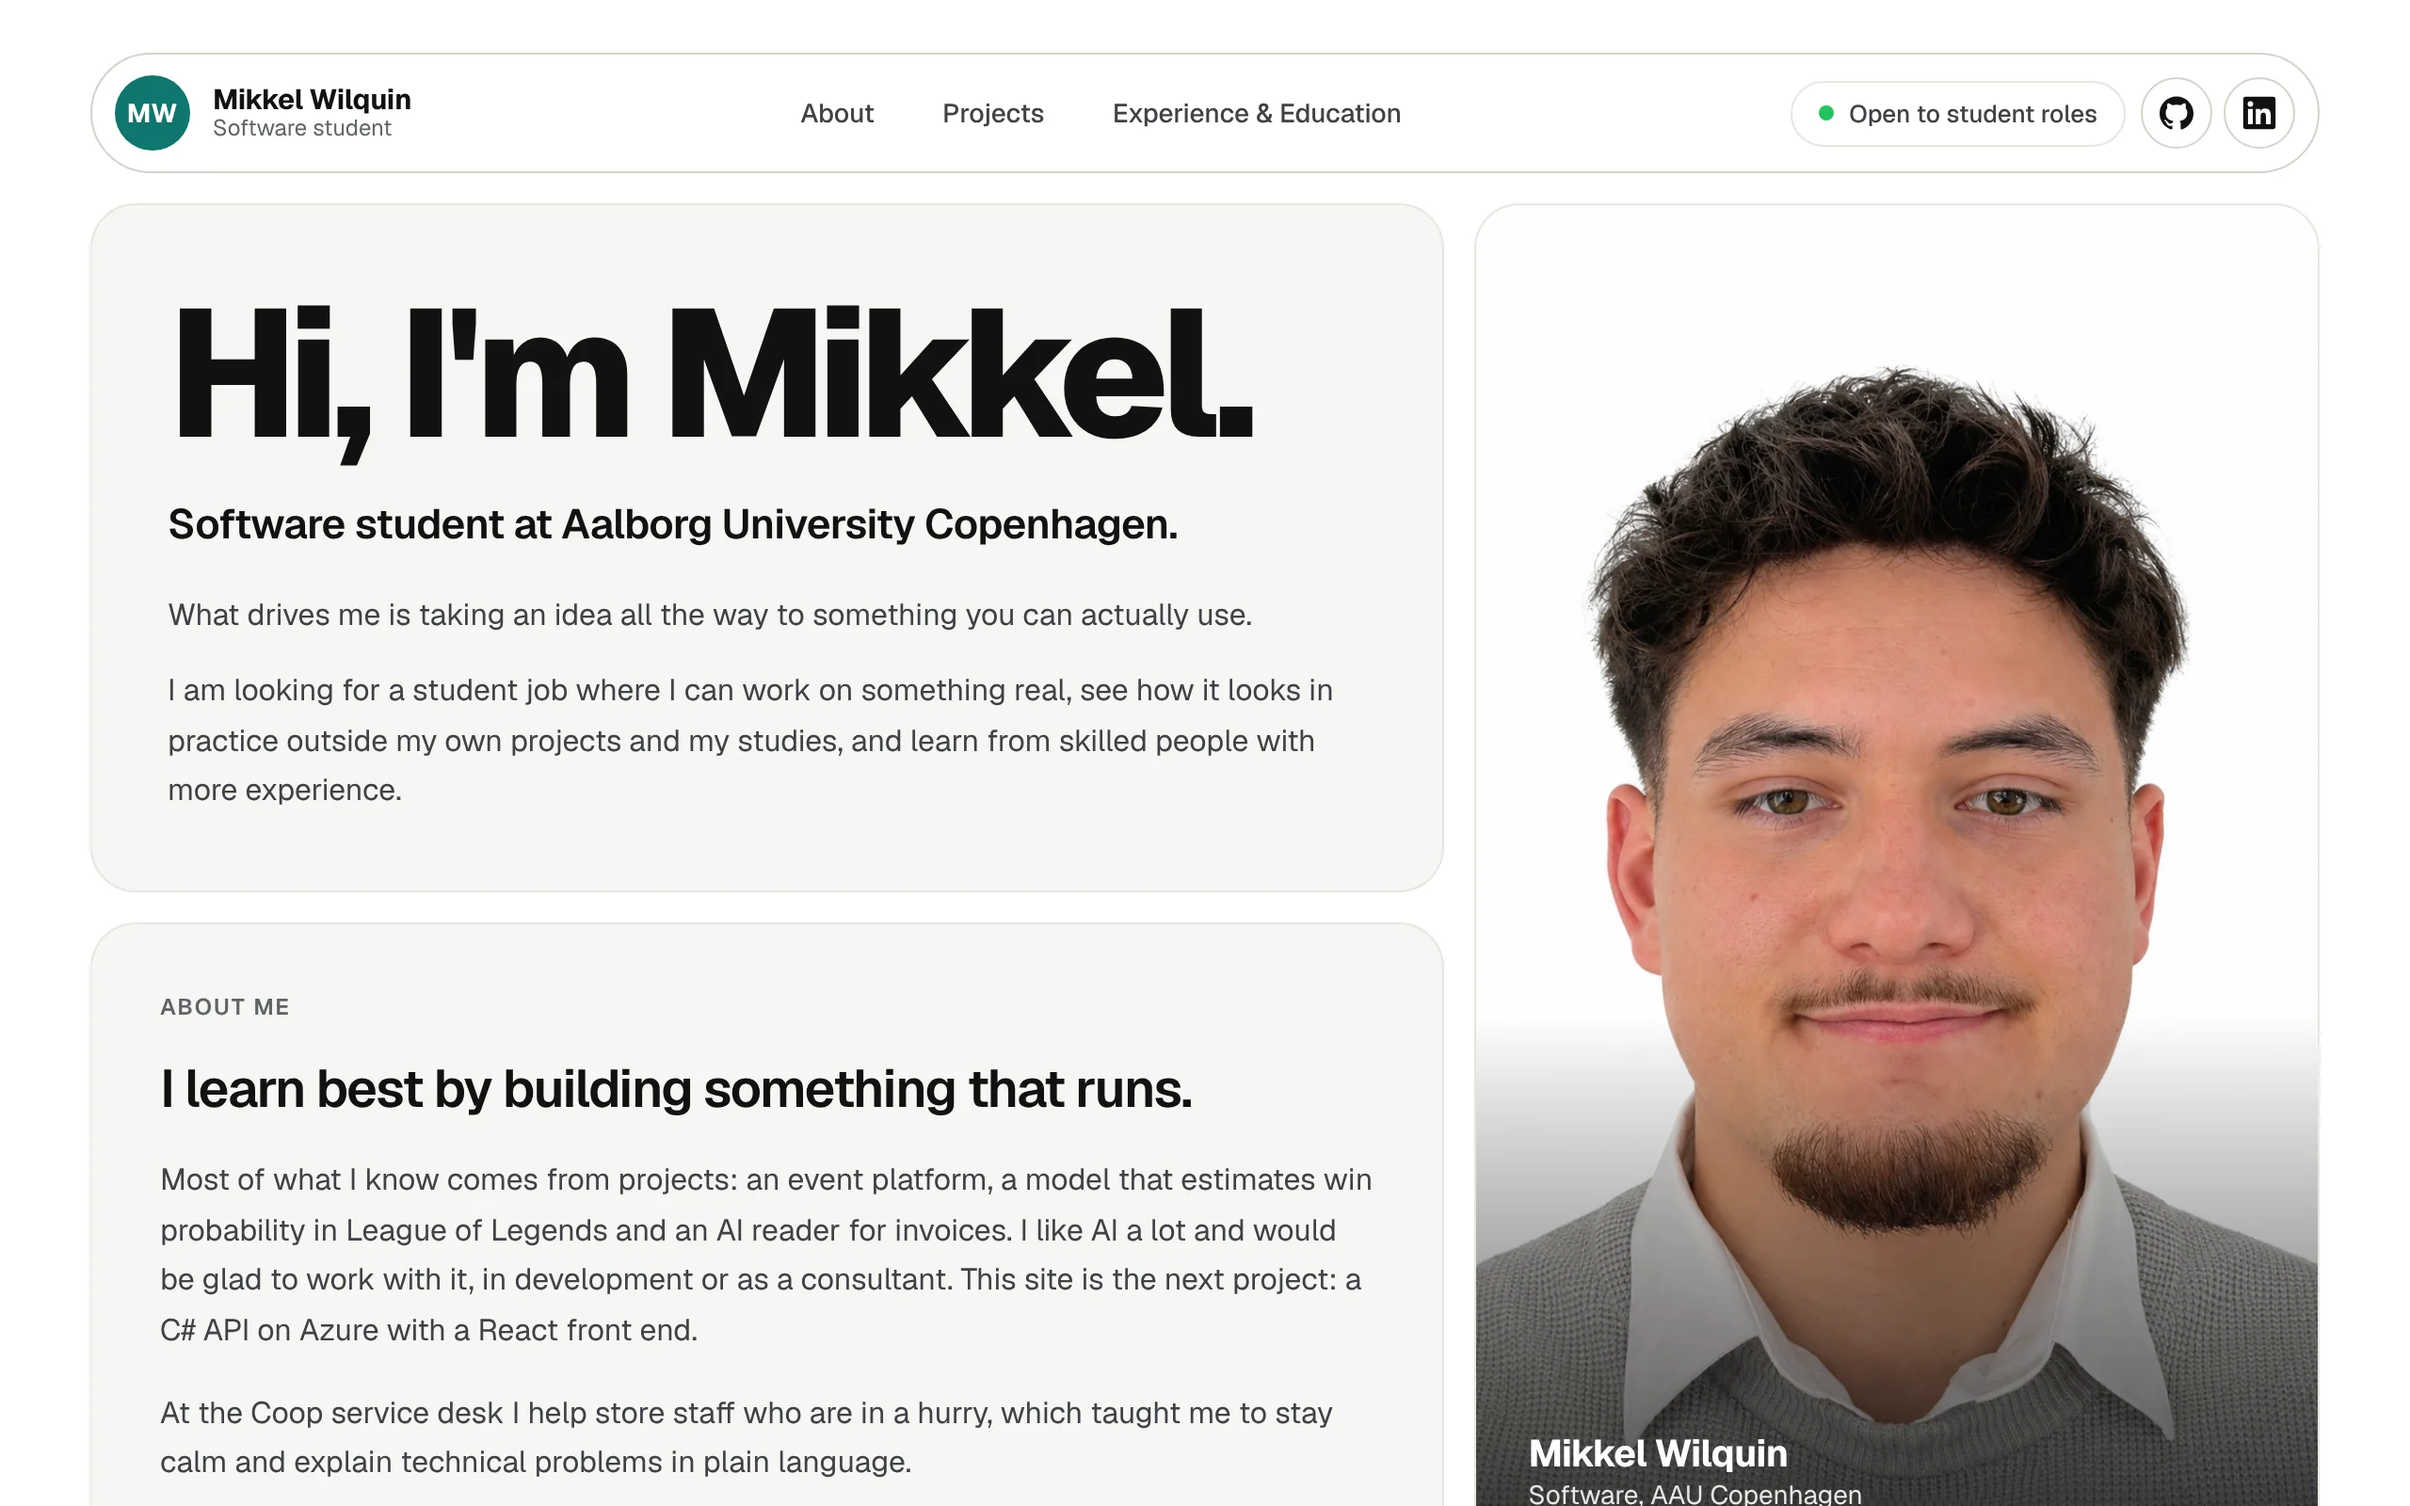
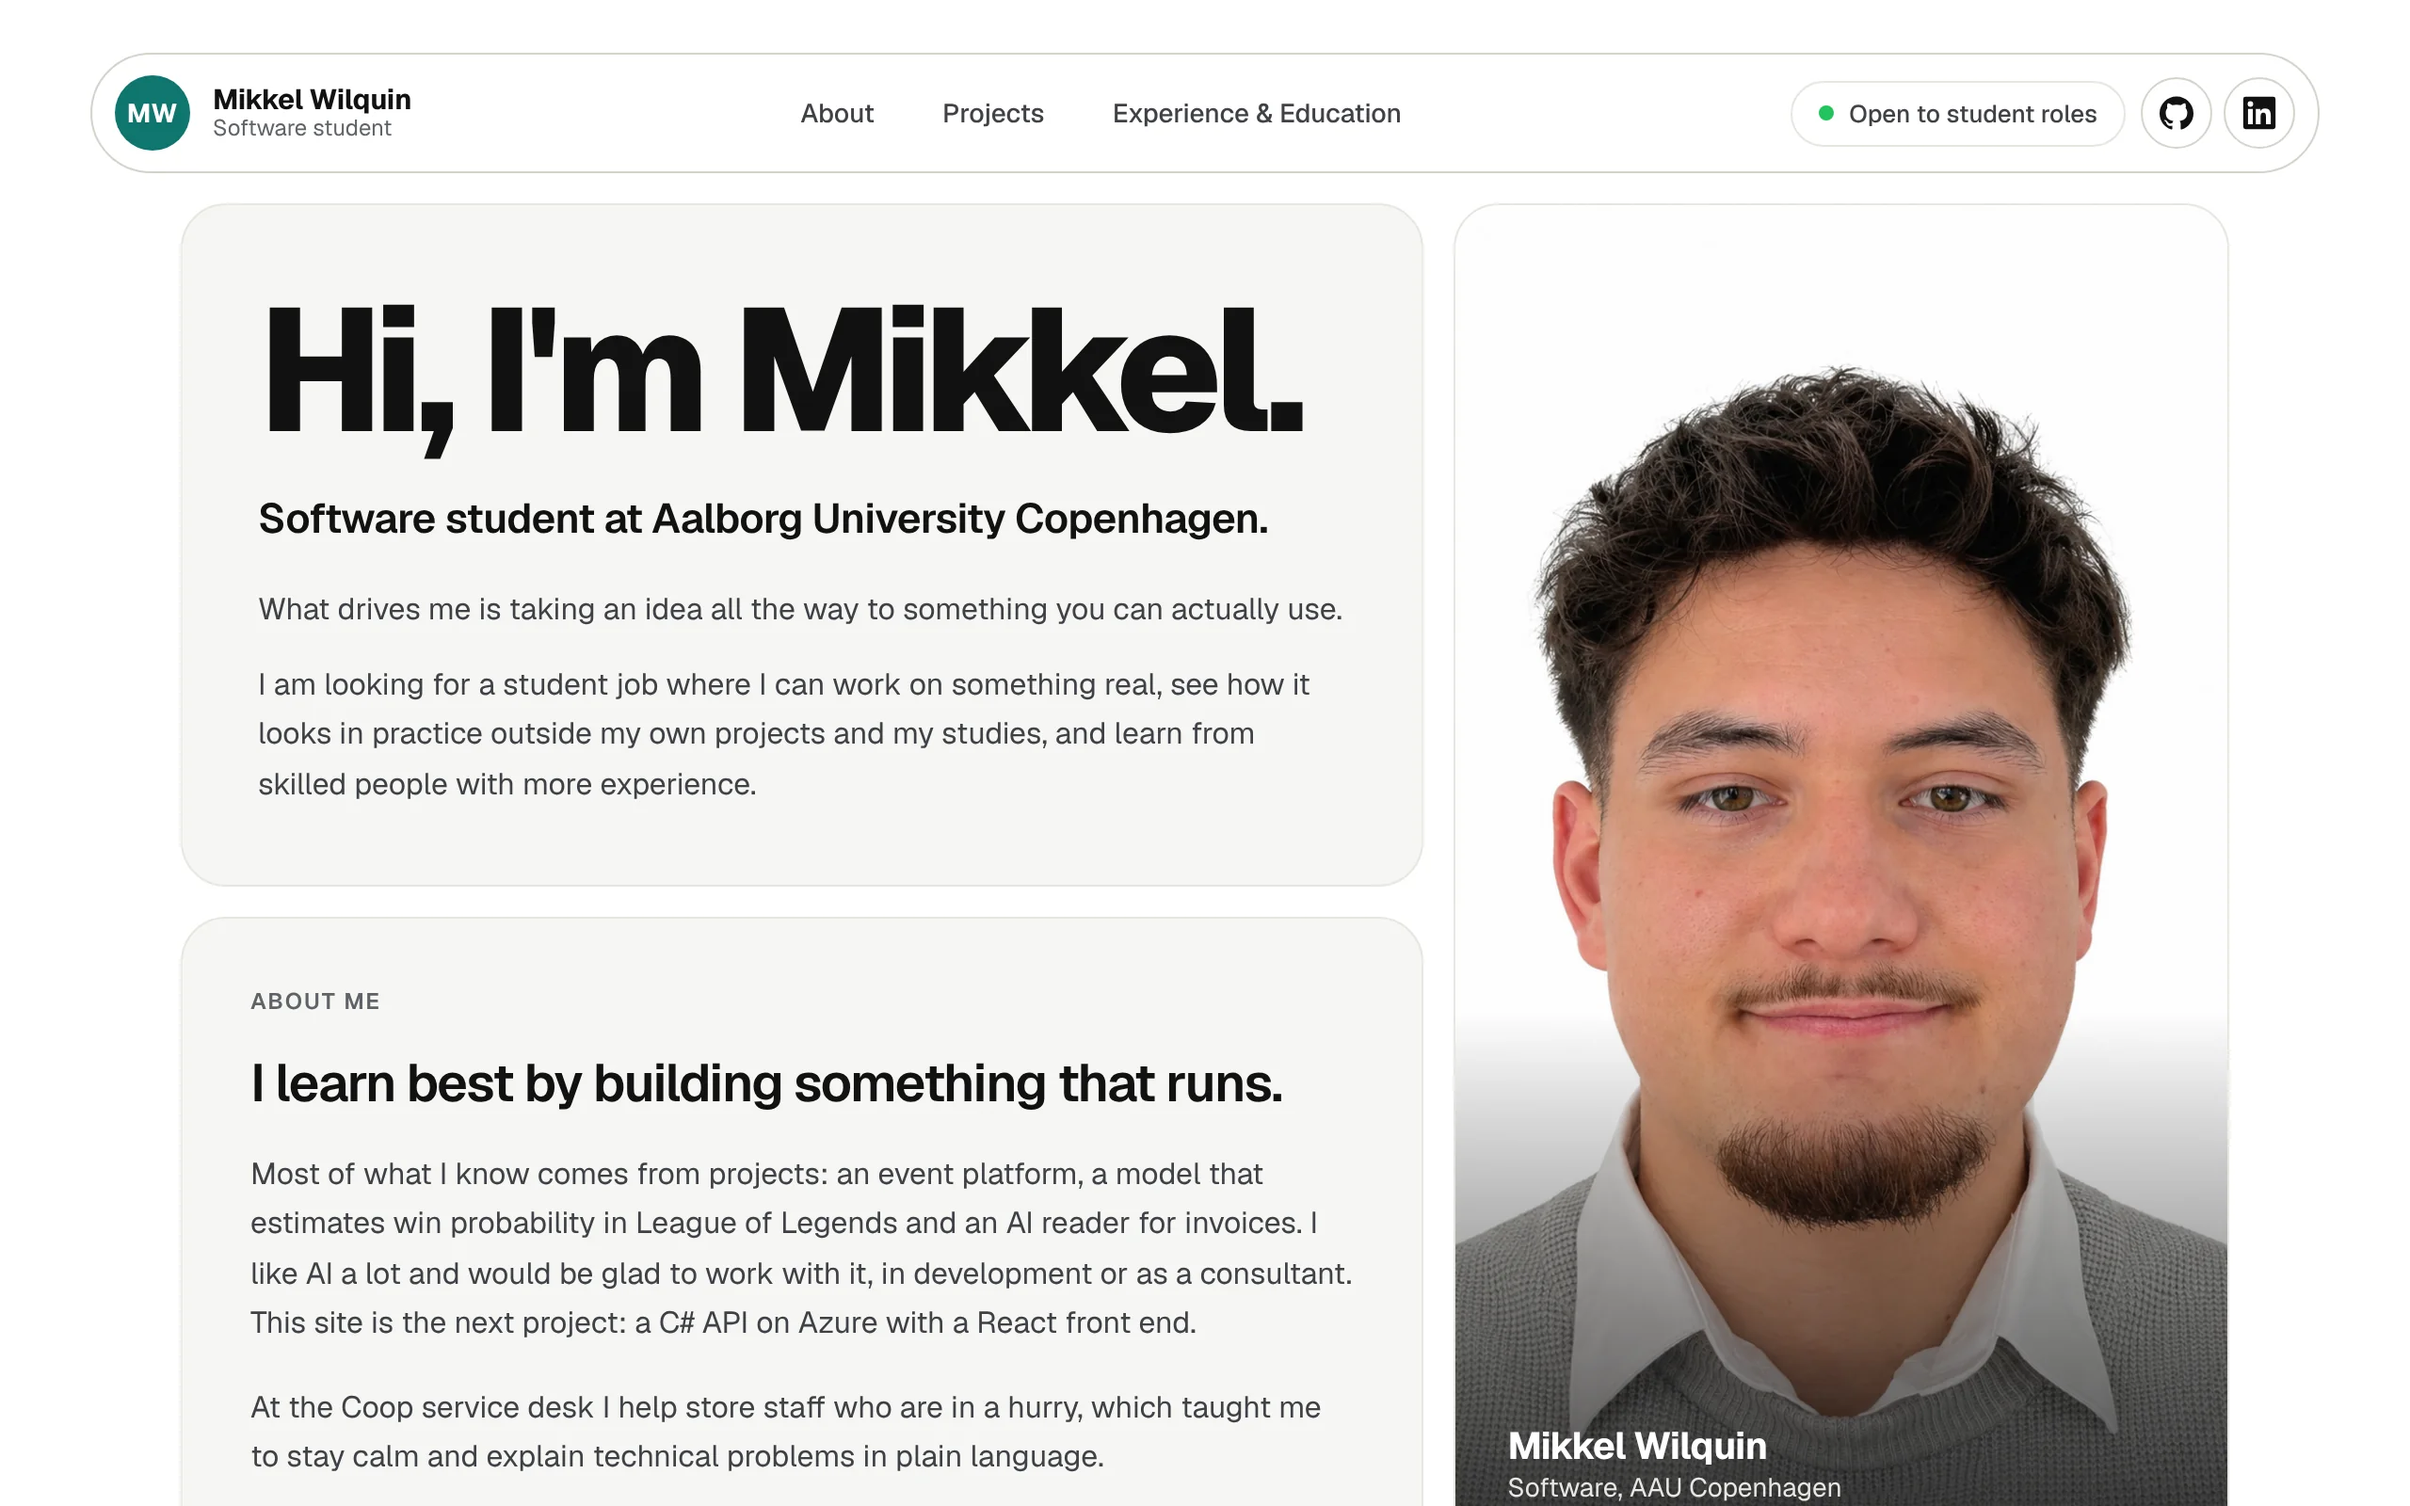
Narrower page, the header keeps its width

Changed region(s): [[0.5938, 0.2188, 0.9688, 1.0], [0.0625, 0.1875, 0.5625, 0.5312], [0.0625, 0.6562, 0.5625, 1.0]]

diff --git a/portfolio-web/src/components/Hero.css b/portfolio-web/src/components/Hero.css
@@ -10,6 +10,7 @@
 }
 
 .hero-main {
+  container-type: inline-size;
   padding: 44px 40px 40px;
   display: flex;
   flex-direction: column;
@@ -19,7 +20,7 @@
 
 .hero h1 {
   margin: 0;
-  font-size: 96px;
+  font-size: min(96px, 16cqw);
   line-height: 0.95;
   font-weight: 800;
   letter-spacing: -0.05em;
@@ -90,12 +91,6 @@
 .hero-photo-caption span {
   font-size: 14px;
   color: #E8E8E4;
-}
-
-@media (max-width: 1100px) {
-  .hero h1 {
-    font-size: 72px;
-  }
 }
 
 @media (max-width: 900px) {

diff --git a/portfolio-web/src/components/Timeline.css b/portfolio-web/src/components/Timeline.css
@@ -4,7 +4,7 @@
   justify-content: space-between;
   align-items: flex-end;
   gap: 16px 24px;
-  margin: 0 48px;
+  margin: 0 var(--gutter);
   padding: 48px 4px 24px;
 }
 
@@ -20,7 +20,7 @@
   display: flex;
   flex-wrap: wrap;
   gap: 10px;
-  margin: 0 48px 28px;
+  margin: 0 var(--gutter) 28px;
   padding: 0 4px;
 }
 
@@ -61,7 +61,7 @@
   display: flex;
   flex-direction: column;
   gap: 20px;
-  margin: 0 48px 48px;
+  margin: 0 var(--gutter) 48px;
   padding: 0;
 }
 

diff --git a/portfolio-web/src/intro/config.js b/portfolio-web/src/intro/config.js
@@ -39,7 +39,7 @@ export const COPY = {
 
 // Where the robot's cursor clicks in the 1280x800 screenshot (page pixels).
 // Change it if you move things on your front page.
-export const SITE_BUTTON = { x: 376, y: 199 }
+export const SITE_BUTTON = { x: 414, y: 197 }
 
 // Idle wandering and walking (seconds). The wandering loops forever until the visitor picks something.
 export const WALK = { lead: 1.2, move: 2.4, pause: 1.1, step: 0.6, speed: 230 }

diff --git a/portfolio-web/src/components/Projects.css b/portfolio-web/src/components/Projects.css
@@ -2,7 +2,7 @@
   display: flex;
   justify-content: space-between;
   align-items: flex-end;
-  margin: 0 48px;
+  margin: 0 var(--gutter);
   padding: 48px 4px 8px;
 }
 
@@ -18,7 +18,7 @@
   display: grid;
   grid-template-columns: minmax(260px, 4fr) minmax(0, 8fr);
   gap: 16px;
-  margin: 16px 48px 48px;
+  margin: 16px var(--gutter) 48px;
   align-items: stretch;
 }
 

diff --git a/portfolio-web/src/App.css b/portfolio-web/src/App.css
@@ -2,7 +2,7 @@
   display: grid;
   grid-template-columns: minmax(0, 1.6fr) minmax(0, 1fr);
   gap: 16px;
-  margin: 16px 48px 0;
+  margin: 16px var(--gutter) 0;
 }
 
 .top > .about {
@@ -21,7 +21,6 @@
 @media (max-width: 900px) {
   .top {
     grid-template-columns: minmax(0, 1fr);
-    margin: 16px 16px 0;
   }
 
   .top > .about,

diff --git a/portfolio-web/src/components/TechBand.css b/portfolio-web/src/components/TechBand.css
@@ -3,7 +3,7 @@
   align-items: center;
   gap: 32px;
   height: 88px;
-  margin: 16px 48px 0;
+  margin: 16px var(--gutter) 0;
   padding: 0 32px;
   background: var(--card);
   border: 1px solid var(--border);

diff --git a/portfolio-web/src/index.css b/portfolio-web/src/index.css
@@ -9,7 +9,13 @@
   --accent: #0F766E;
   --radius: 24px;
   --pad: 28px;
+  --gutter: clamp(48px, 7.5vw, 96px);
+}
 
+@media (max-width: 900px) {
+  :root {
+    --gutter: 16px;
+  }
 }
 
 body {
